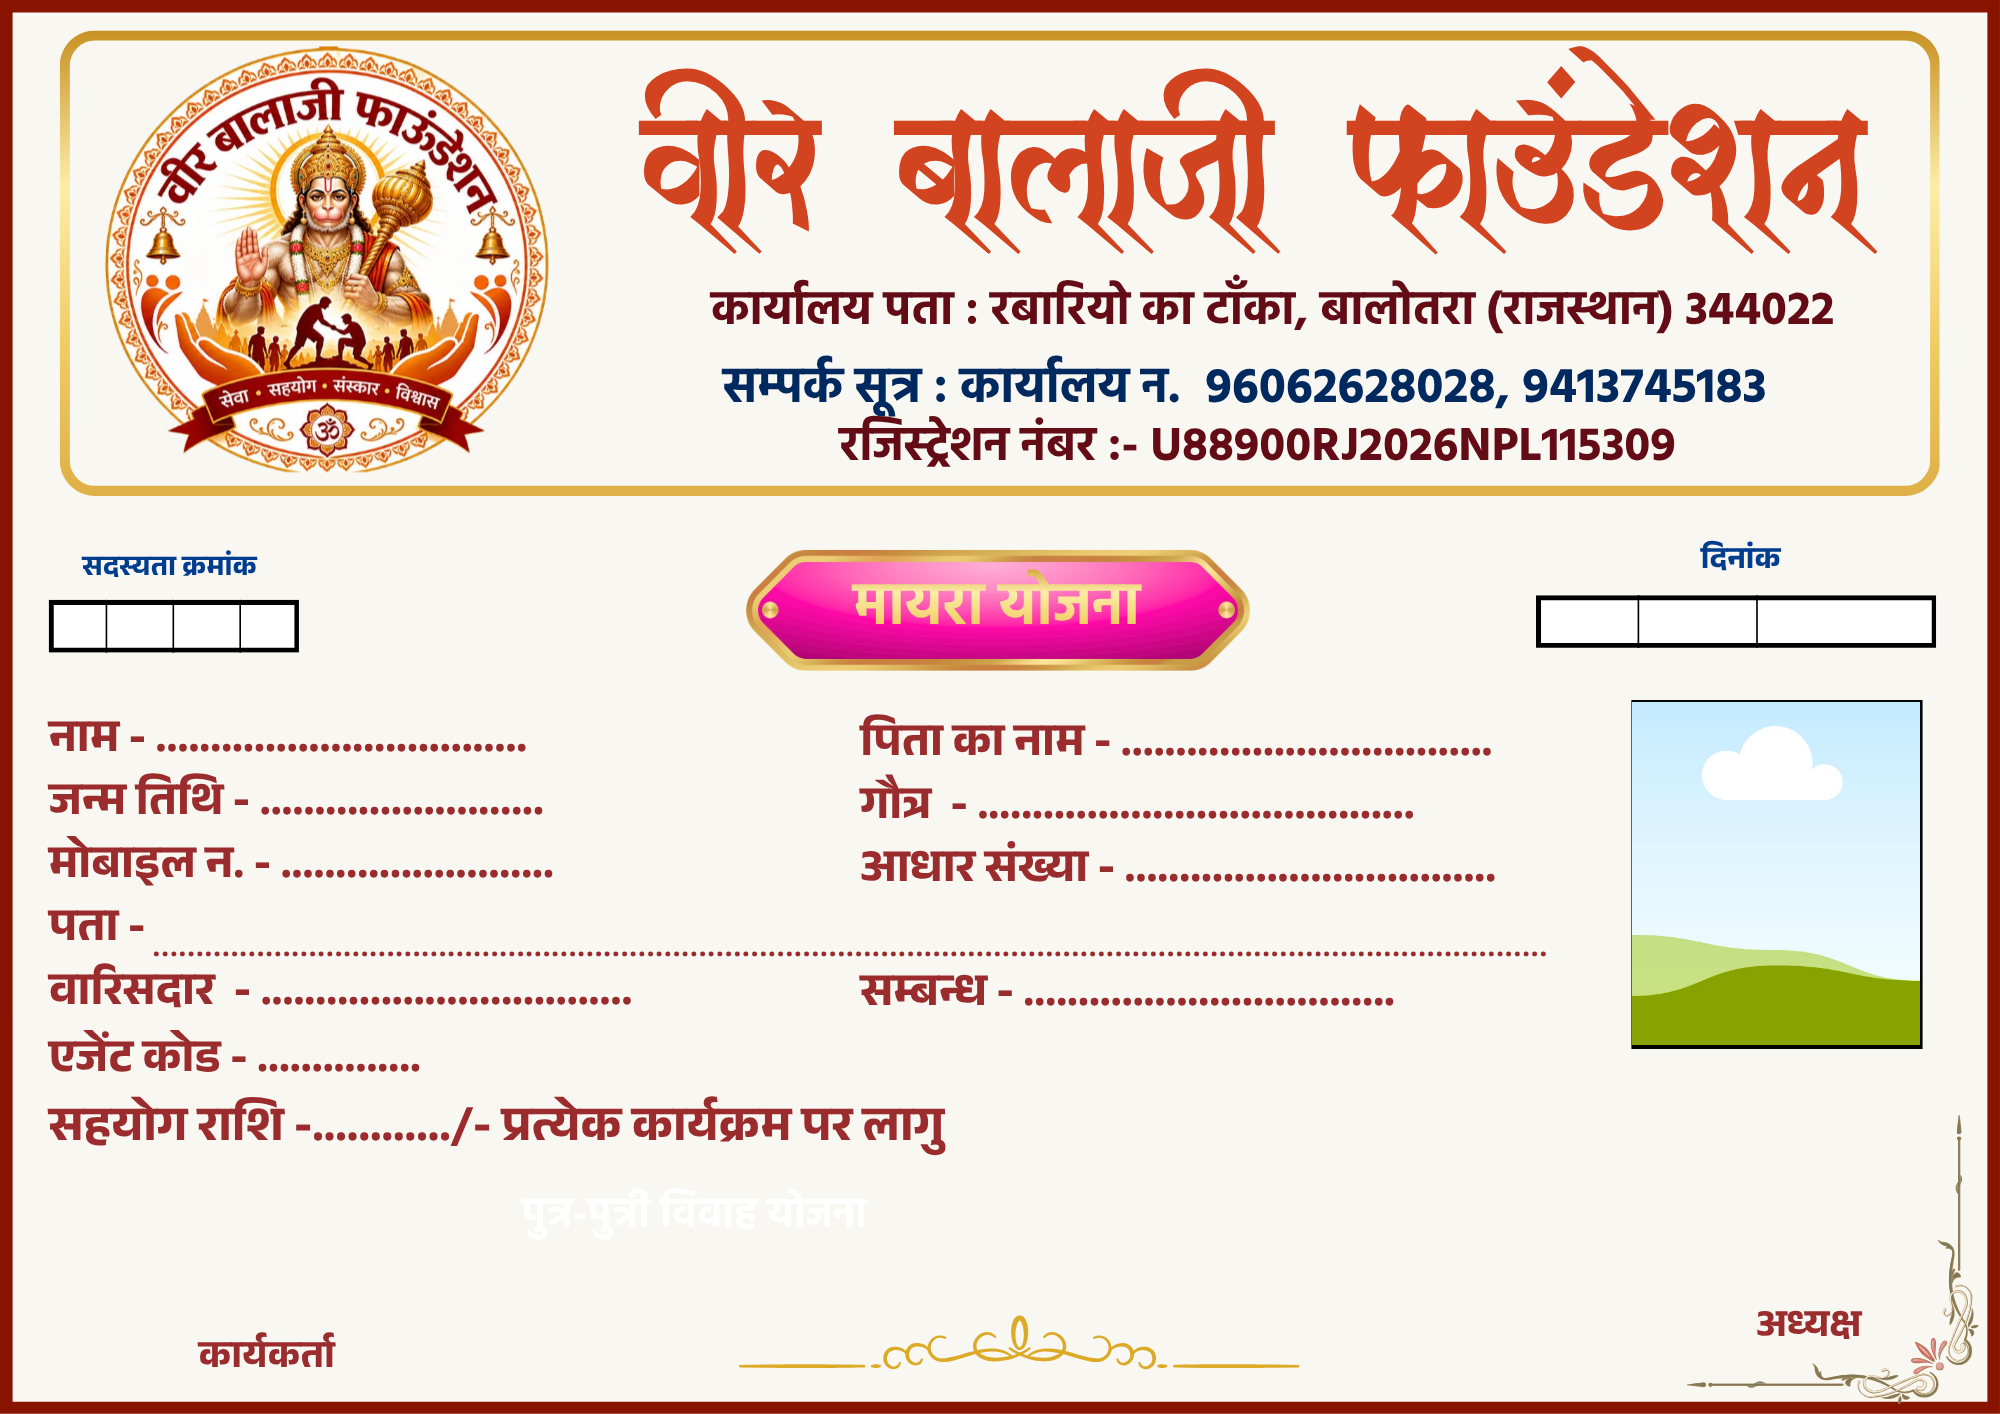
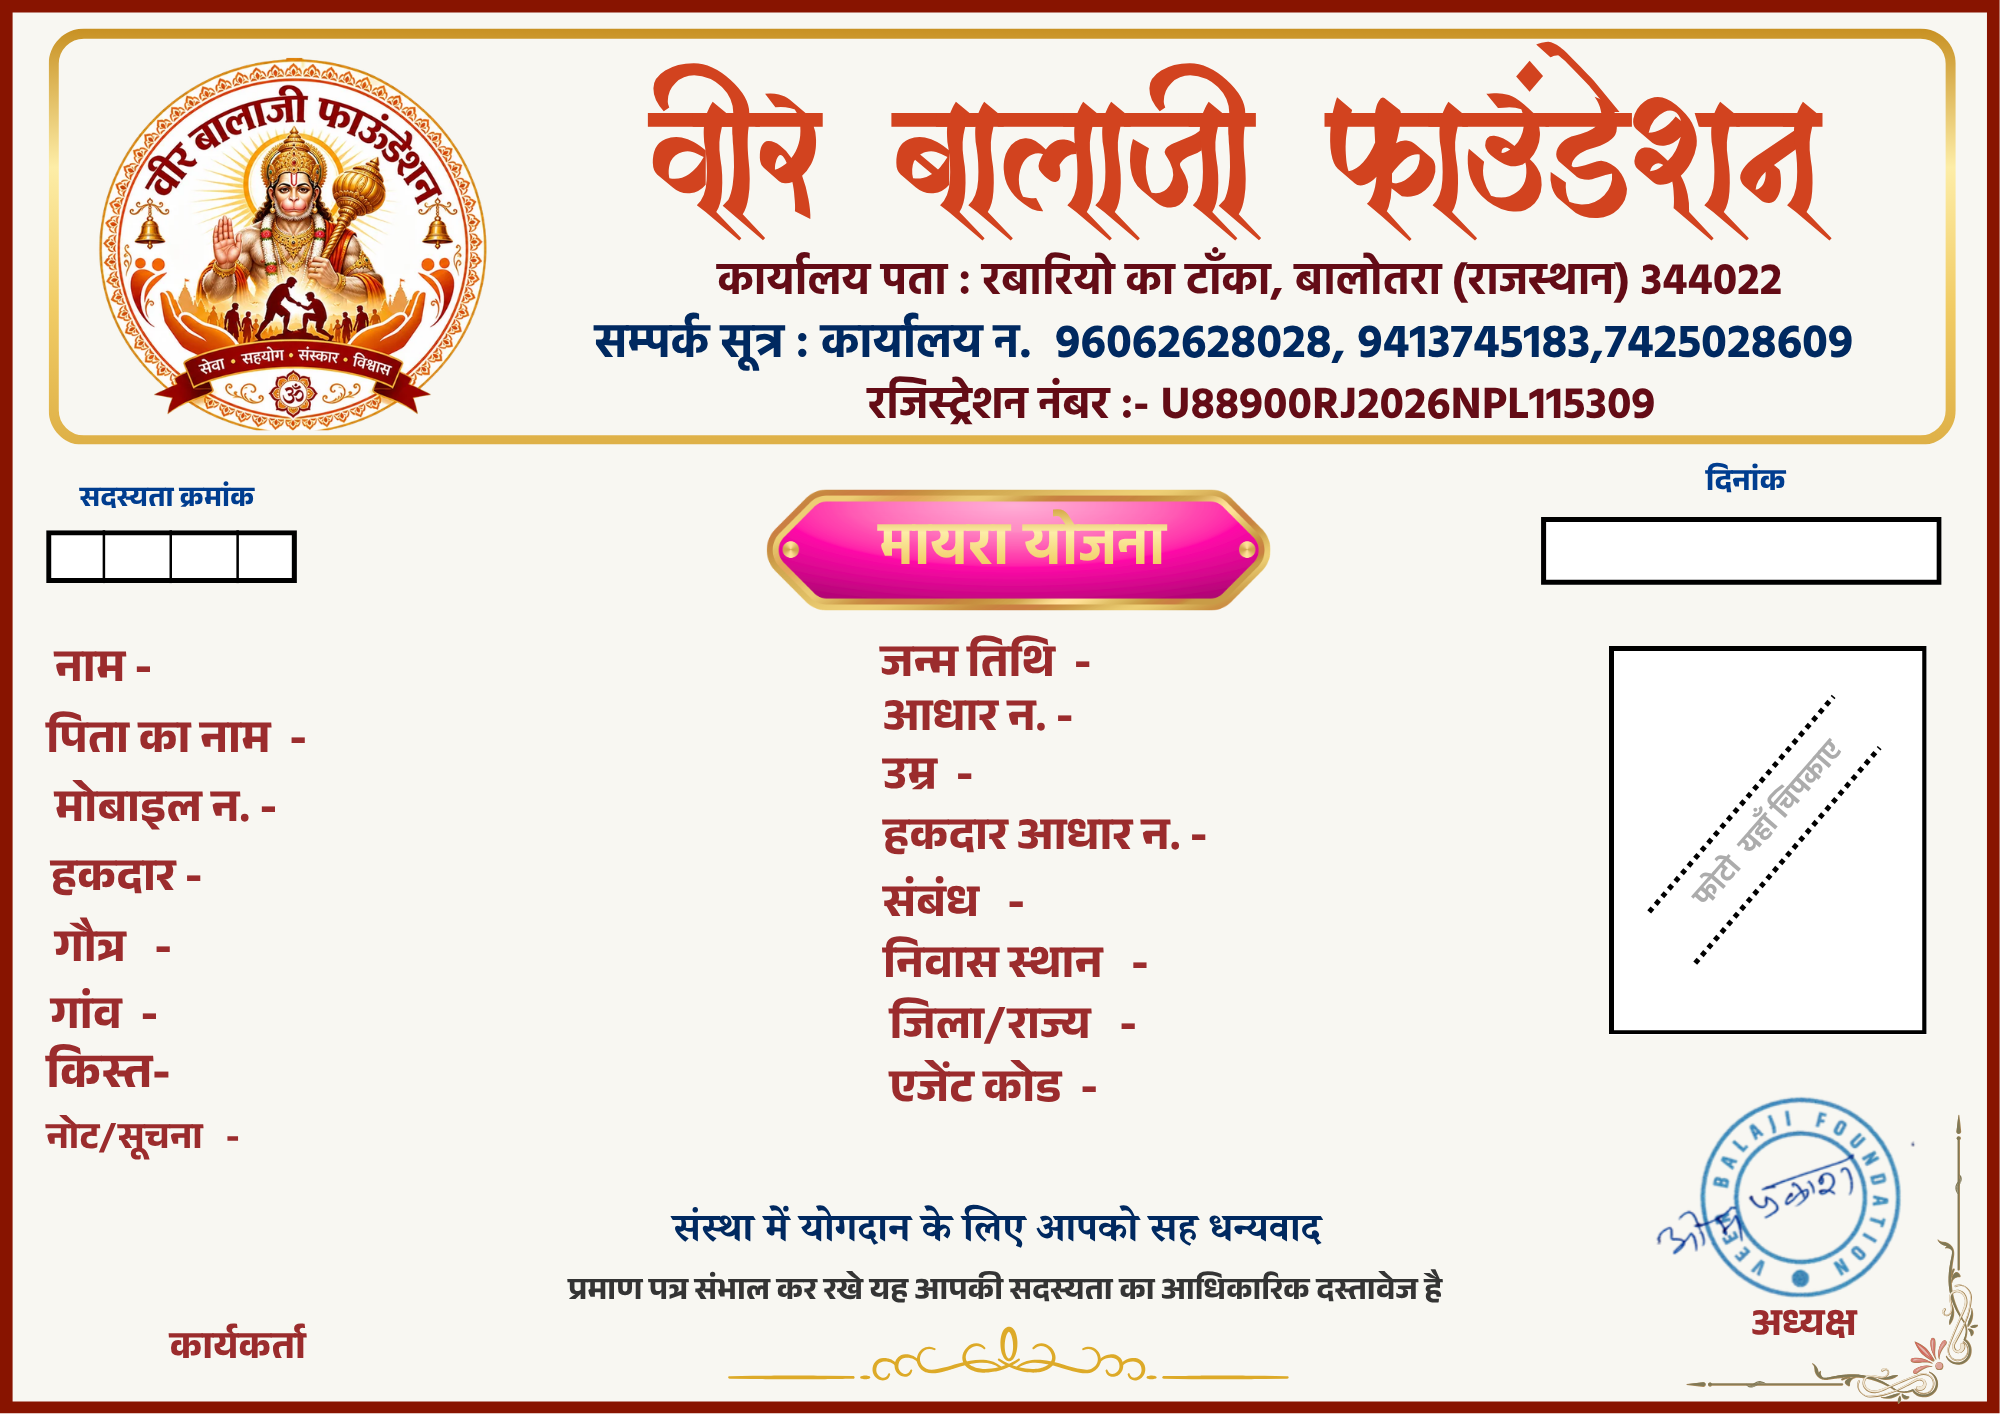
feat: update certificate templates to new Canva design (1.png, 2.png, 3.png) with 100% exact pixel-perfect field alignment

diff --git a/src/app/api/certificate-send/route.js b/src/app/api/certificate-send/route.js
@@ -85,19 +85,38 @@ export async function POST(req) {
       ctx.drawImage(bg1, 0, 0, 2000, 1414);
 
       // 2. Extract fields
-      const name       = member?.displayName || member?.name || "";
-      const fatherName = member?.fatherName || "";
-      const dob        = member?.bobDate || member?.dob || "";
-      const phone      = member?.phone || member?.mobile || "";
-      const aadhaar    = member?.aadhaarNo || "";
-      const gotra      = member?.gotra || member?.jati || "";
-      const address    = member?.currentAddress || member?.address || "";
-      const village    = member?.village || "";
-      const fullAddr   = [address, village].filter(Boolean).join(", ");
-      const guardian   = member?.guardian || "";
-      const relation   = member?.guardianRelation || "";
-      const agCode     = member?.agentCode || member?.agentId || "";
-      const photoURL   = member?.photoURL || null;
+      const name         = member?.displayName || member?.name || "";
+      const fatherName   = member?.fatherName || "";
+      const dob          = member?.bobDate || member?.dob || "";
+      const phone        = member?.phone || member?.mobile || "";
+      const aadhaar      = member?.aadhaarNo || "";
+      const gotra        = member?.gotra || member?.jati || "";
+      const address      = member?.currentAddress || member?.address || "";
+      const village      = member?.village || "";
+      const stateDistrict= [member?.district, member?.state].filter(Boolean).join(", ");
+      const guardian     = member?.guardian || "";
+      const relation     = member?.guardianRelation || "";
+      const agCode       = member?.agentCode || member?.agentId || "";
+      const photoURL     = member?.photoURL || null;
+      const guardianAadhaar = member?.guardianAadhaar || member?.warisAadhaar || "";
+      const noteInfo     = programName;
+
+      // Age calculation
+      let ageStr = "";
+      if (member?.age) {
+        ageStr = `${member.age} वर्ष`;
+      } else if (dob) {
+        try {
+          const parts = dob.split("-");
+          if (parts.length === 3) {
+            const birthYear = parseInt(parts[2], 10);
+            const currentYear = new Date().getFullYear();
+            if (birthYear > 1900 && birthYear <= currentYear) {
+              ageStr = `${currentYear - birthYear} वर्ष`;
+            }
+          }
+        } catch (e) {}
+      }
 
       const regNoRaw   = member?.registrationNumber || member?.applicationNumber || "0000";
       const regNo      = String(regNoRaw).replace(/\D/g, "").padStart(4, "0").slice(-4);
@@ -109,25 +128,25 @@ export async function POST(req) {
         if (clean.length === 8) dateStr = clean;
       }
 
-      // 3. Reg boxes (4 boxes: x=50..106, 106..173, 173..240, 240..296)
+      // 3. Reg boxes (X centers: 75, 136, 203, 265, Y center: 556)
       ctx.font = 'bold 36px "NSDBold"';
       ctx.fillStyle = "#000000";
       ctx.textAlign = "center";
       ctx.textBaseline = "middle";
 
-      const regCenters = [78, 139, 206, 268];
+      const regCenters = [75, 136, 203, 265];
       regNo.split("").forEach((ch, i) => {
         if (regCenters[i]) {
-          ctx.fillText(ch, regCenters[i], 621);
+          ctx.fillText(ch, regCenters[i], 556);
         }
       });
 
-      // 4. Date boxes (3 sub-boxes: DD [1538..1638], MM [1638..1756], YYYY [1756..1933])
-      ctx.font = 'bold 32px "NSDBold"';
-      const dateCenters = [1563, 1613, 1668, 1726, 1778, 1822, 1866, 1910];
+      // 4. Date boxes (X centers across 399px width, Y center: 550)
+      ctx.font = 'bold 30px "NSDBold"';
+      const calcDateCenters = [1566, 1616, 1666, 1716, 1766, 1816, 1866, 1916];
       dateStr.split("").forEach((ch, i) => {
-        if (ch.trim() && dateCenters[i]) {
-          ctx.fillText(ch, dateCenters[i], 621);
+        if (ch.trim() && calcDateCenters[i]) {
+          ctx.fillText(ch, calcDateCenters[i], 550);
         }
       });
 
@@ -135,7 +154,7 @@ export async function POST(req) {
       ctx.textAlign = "left";
       ctx.textBaseline = "top";
 
-      // 5. Member Photo
+      // 5. Member Photo (Inner Frame: X=1612, Y=649, W=312, H=368)
       if (photoURL) {
         try {
           let photoImg;
@@ -153,43 +172,39 @@ export async function POST(req) {
           }
 
           if (photoImg) {
-            ctx.drawImage(photoImg, 1630, 695, 290, 318);
+            ctx.drawImage(photoImg, 1612, 649, 312, 368);
           }
         } catch (e) {
           console.error("Photo load error:", e.message);
         }
       }
 
-      // 6. Text Overlays (Exact fit for Canva dotted lines)
+      // 6. Text Overlays (New Template Layout)
       ctx.fillStyle = "#111111";
+      ctx.font = 'bold 32px "NSDBold"';
 
-      ctx.font = 'bold 34px "NSDBold"';
-      ctx.fillText(name,       200, 704);
-      ctx.fillText(dob,        290, 770);
-      ctx.fillText(phone,      290, 836);
+      const payAmountVal = member?.payAmount || member?.paymentAmount || selectedProgram?.payAmount || "";
+      const kishtStr = payAmountVal ? `${payAmountVal}` : "";
 
-      ctx.font = 'bold 30px "NSDBold"';
-      ctx.fillText(fullAddr,   150, 902);
+      // Left Column
+      ctx.fillText(name,       180, 652);
+      ctx.fillText(fatherName, 385, 712);
+      ctx.fillText(phone,      290, 780);
+      ctx.fillText(guardian,   250, 850);
+      ctx.fillText(gotra,      160, 915);
+      ctx.fillText(village,    140, 980);
+      ctx.fillText(kishtStr,   150, 1045);
+      ctx.fillText(noteInfo,   260, 1110);
 
-      ctx.font = 'bold 34px "NSDBold"';
-      ctx.fillText(guardian,   270, 968);
-      ctx.fillText(agCode,     270, 1034);
-
-      // Right column
-      ctx.fillText(fatherName, 1140, 704);
-      ctx.fillText(gotra,      990,  770);
-      ctx.fillText(aadhaar,    1140, 836);
-      ctx.fillText(relation,   1030, 968);
-
-      // 7. Contribution Amount Overlay (सहयोग राशि -............/- प्रत्येक कार्यक्रम पर लागू)
-      const payAmountVal = member?.payAmount || member?.paymentAmount || selectedProgram?.payAmount || 0;
-      if (payAmountVal) {
-        ctx.fillStyle = "#942626"; // Matching maroon header theme
-        ctx.font = 'bold 38px "NSDBold"';
-        ctx.textAlign = "center";
-        ctx.textBaseline = "middle";
-        ctx.fillText(String(payAmountVal), 415, 1122);
-      }
+      // Middle Column
+      ctx.fillText(dob,             1120, 636);
+      ctx.fillText(aadhaar,         1110, 700);
+      ctx.fillText(ageStr,          1000, 759);
+      ctx.fillText(guardianAadhaar, 1220, 809);
+      ctx.fillText(relation,        1030, 870);
+      ctx.fillText(village,         1190, 935);
+      ctx.fillText(stateDistrict,   1170, 1000);
+      ctx.fillText(agCode,          1130, 1065);
 
       // Convert composite canvas to PNG Buffer
       const p1PngBuffer = canvas.toBuffer("image/png");
